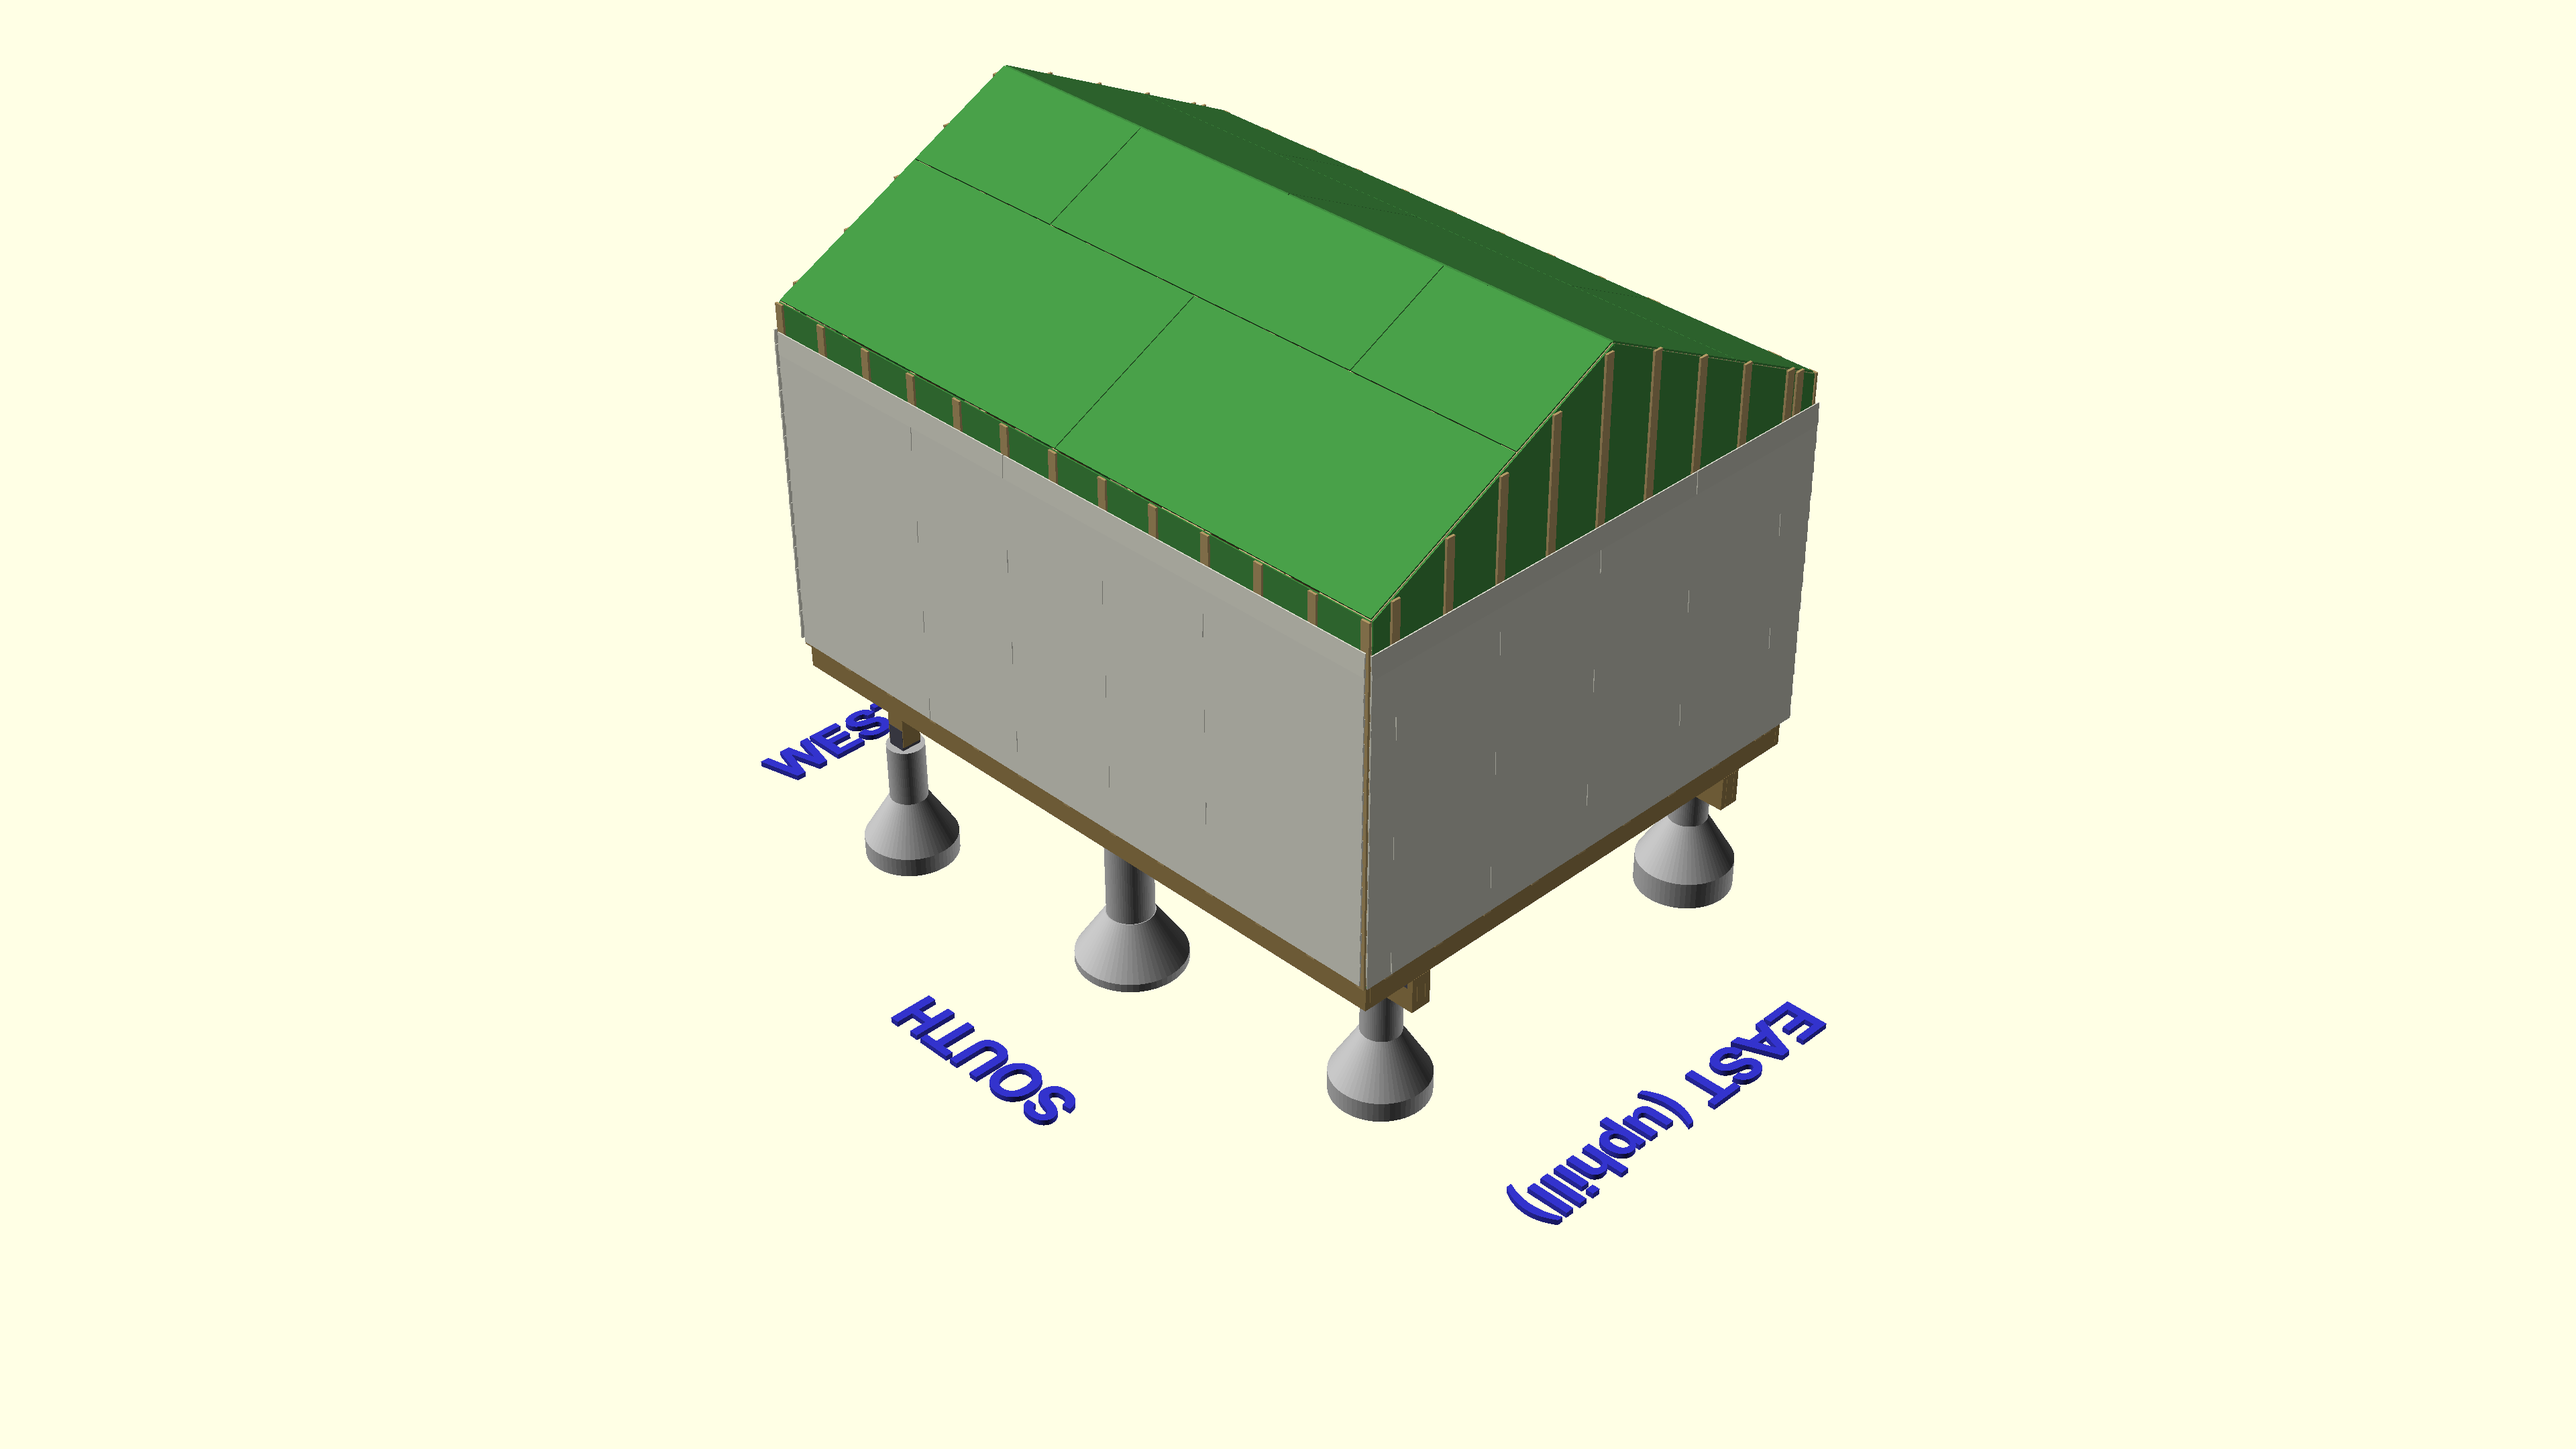
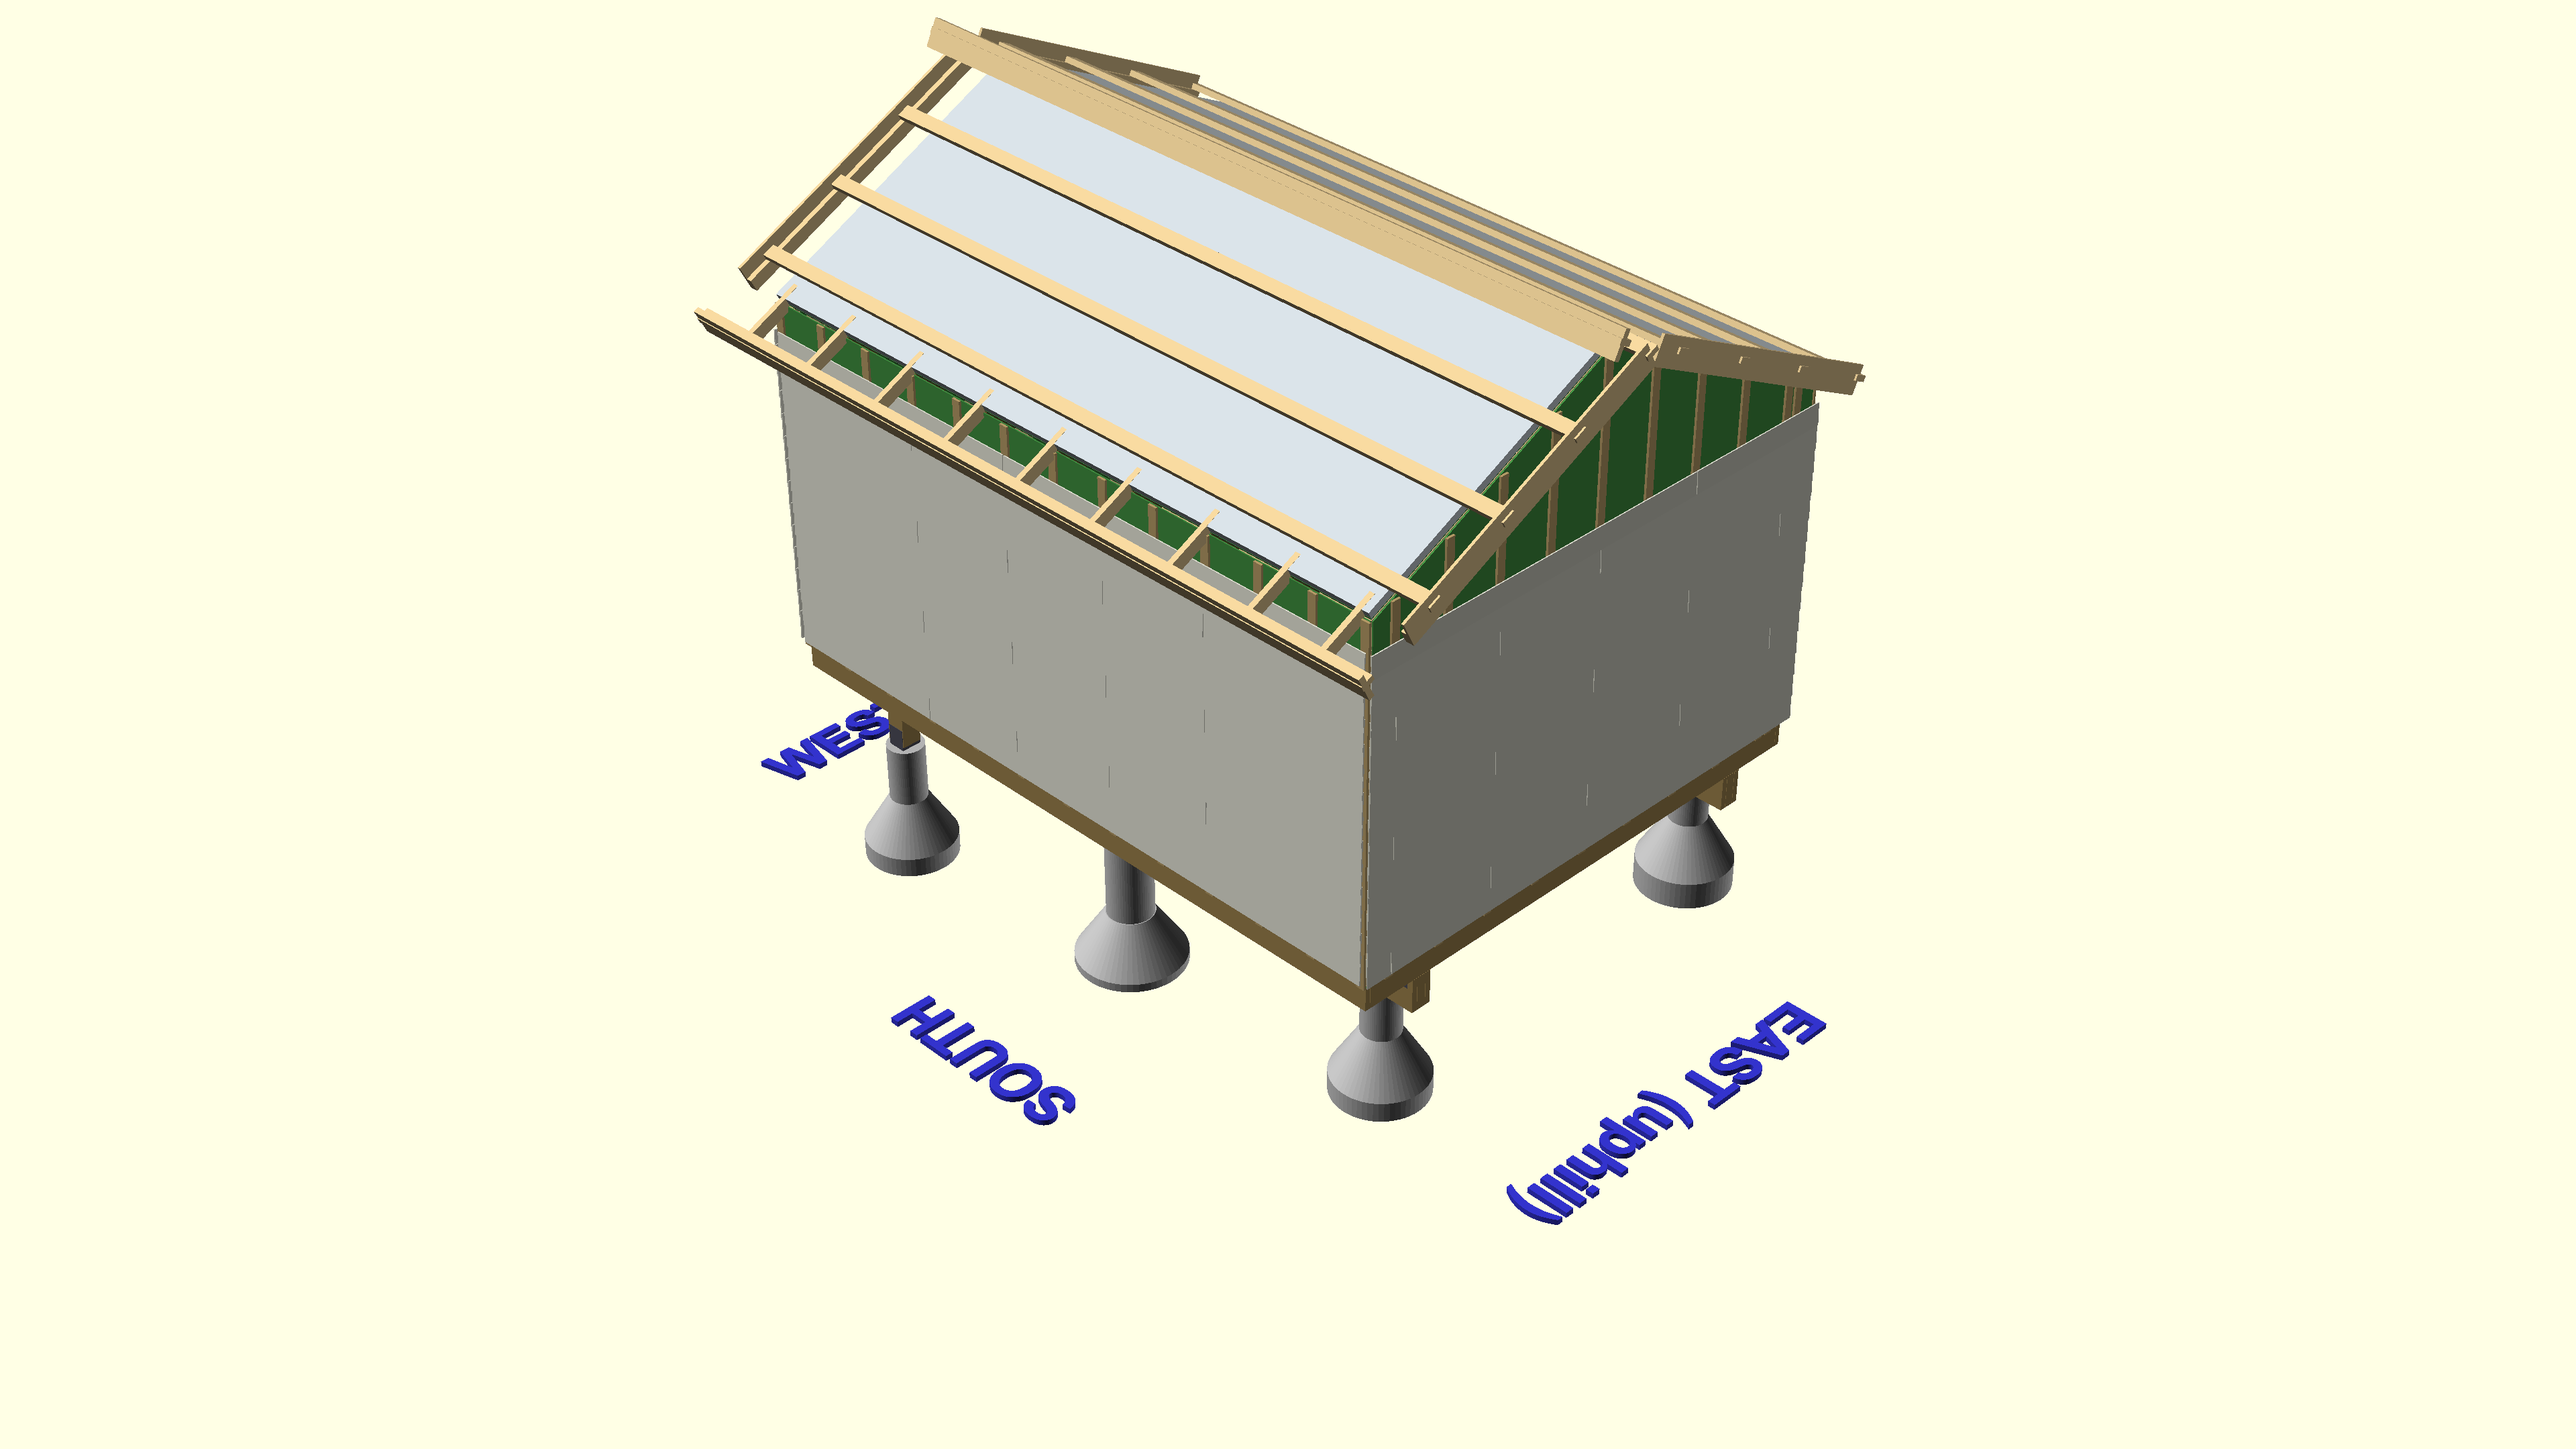
Add polyiso, purlins, and eave framing to OpenSCAD model
Three new toggleable layers per A3 proposal:
- roof_polyiso.scad: 2" rigid foam on both slopes
- purlins.scad: 5 purlins per slope (2x4 flat, 12" gable overhang)
- eave_framing.scad: outriggers, sub-fascia, fly rafters, fascia, barge boards

Replaces unused show_ladder_framing flag with show_eaves.
Adds iso-polyiso, iso-purlins, iso-eave-framing render views.

Changed region(s): [[0.25, 0.0, 0.7188, 0.4963]]

diff --git a/tools/render-views.js b/tools/render-views.js
@@ -51,8 +51,10 @@ const ALL_FLAGS = [
   'show_floor_decking',
   'show_walls',
   'show_trusses',
-  'show_ladder_framing',
   'show_roof',
+  'show_polyiso',
+  'show_purlins',
+  'show_eaves',
   'show_osb',
   'show_furring',
   'show_siding',
@@ -118,7 +120,7 @@ const VIEWS = [
     show: [
       'show_piers', 'show_post_bases', 'show_posts', 'show_beams',
       'show_joists', 'show_rim_joists', 'show_blocking', 'show_hurricane_ties',
-      'show_floor_decking', 'show_walls', 'show_trusses', 'show_ladder_framing',
+      'show_floor_decking', 'show_walls', 'show_trusses', 'show_eaves',
     ],
   },
   {
@@ -136,7 +138,7 @@ const VIEWS = [
       'show_piers', 'show_post_bases', 'show_posts', 'show_beams',
       'show_joists', 'show_rim_joists', 'show_blocking', 'show_hurricane_ties',
       'show_floor_decking', 'show_walls',
-      'show_trusses', 'show_ladder_framing',
+      'show_trusses', 'show_eaves',
     ],
   },
   {
@@ -145,8 +147,9 @@ const VIEWS = [
     show: [
       'show_piers', 'show_post_bases', 'show_posts', 'show_beams',
       'show_joists', 'show_rim_joists', 'show_blocking', 'show_hurricane_ties',
-      'show_floor_decking', 'show_walls', 'show_trusses', 'show_ladder_framing',
-      'show_roof', 'show_osb', 'show_furring', 'show_siding', 'show_compass_labels',
+      'show_floor_decking', 'show_walls', 'show_trusses', 'show_eaves',
+      'show_roof', 'show_polyiso', 'show_purlins',
+      'show_osb', 'show_furring', 'show_siding', 'show_compass_labels',
     ],
   },
 
@@ -244,19 +247,29 @@ const VIEWS = [
     show: ['show_walls', 'show_trusses', 'show_compass_labels'],
   },
   {
-    name: 'iso-ladder-framing',
-    camera: 'roofCorner',
-    show: ['show_walls', 'show_trusses', 'show_ladder_framing', 'show_compass_labels'],
-  },
-  {
     name: 'iso-roof-framing',
     camera: 'elevated',
-    show: ['show_walls', 'show_trusses', 'show_ladder_framing', 'show_compass_labels'],
+    show: ['show_walls', 'show_trusses', 'show_eaves', 'show_compass_labels'],
   },
   {
     name: 'iso-roof-sheathing',
     camera: 'roofCorner',
-    show: ['show_walls', 'show_trusses', 'show_ladder_framing', 'show_roof', 'show_osb', 'show_furring', 'show_siding', 'show_compass_labels'],
+    show: ['show_walls', 'show_trusses', 'show_eaves', 'show_roof', 'show_polyiso', 'show_purlins', 'show_osb', 'show_furring', 'show_siding', 'show_compass_labels'],
+  },
+  {
+    name: 'iso-polyiso',
+    camera: 'roofCorner',
+    show: ['show_walls', 'show_trusses', 'show_roof', 'show_polyiso', 'show_compass_labels'],
+  },
+  {
+    name: 'iso-purlins',
+    camera: 'roofCorner',
+    show: ['show_walls', 'show_trusses', 'show_roof', 'show_polyiso', 'show_purlins', 'show_compass_labels'],
+  },
+  {
+    name: 'iso-eave-framing',
+    camera: 'roofCorner',
+    show: ['show_walls', 'show_trusses', 'show_roof', 'show_polyiso', 'show_purlins', 'show_eaves', 'show_compass_labels'],
   },
 ];
 
